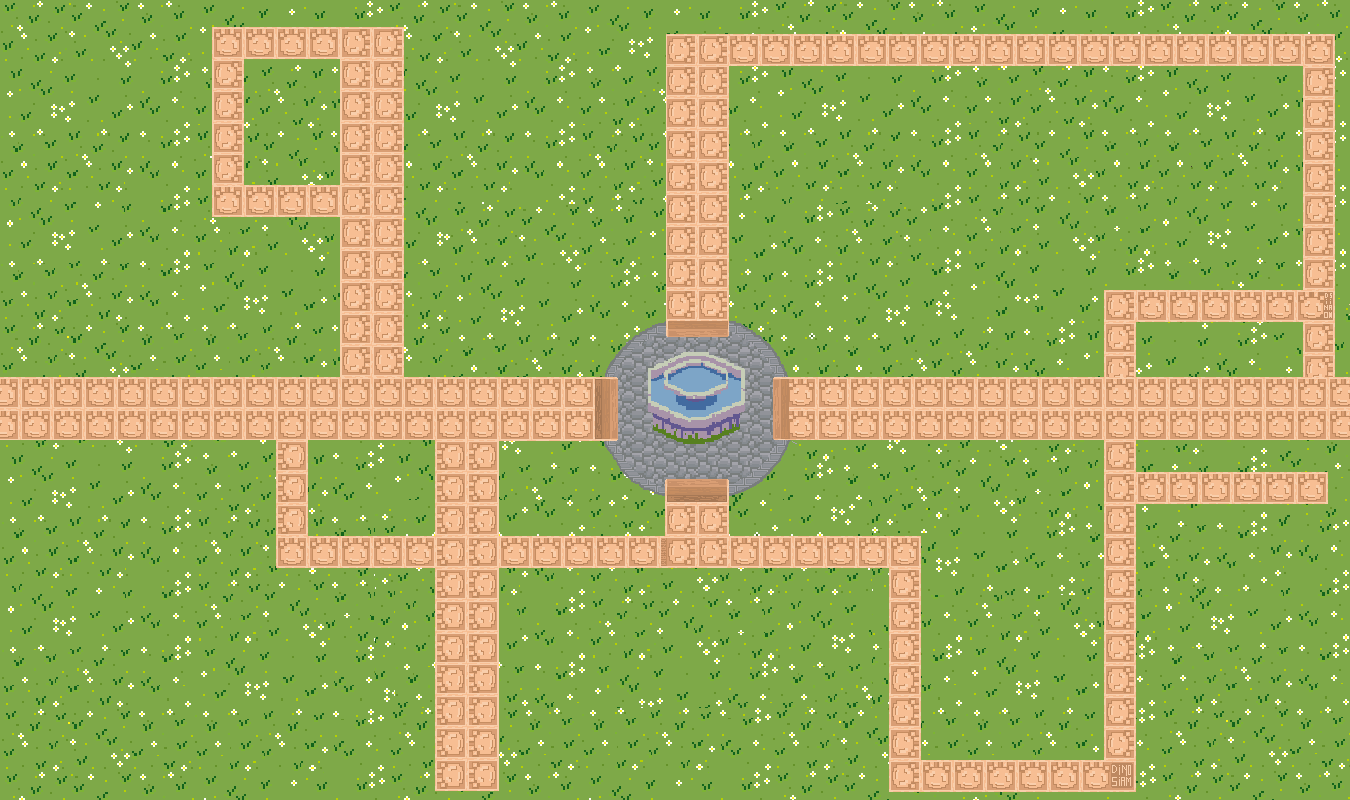
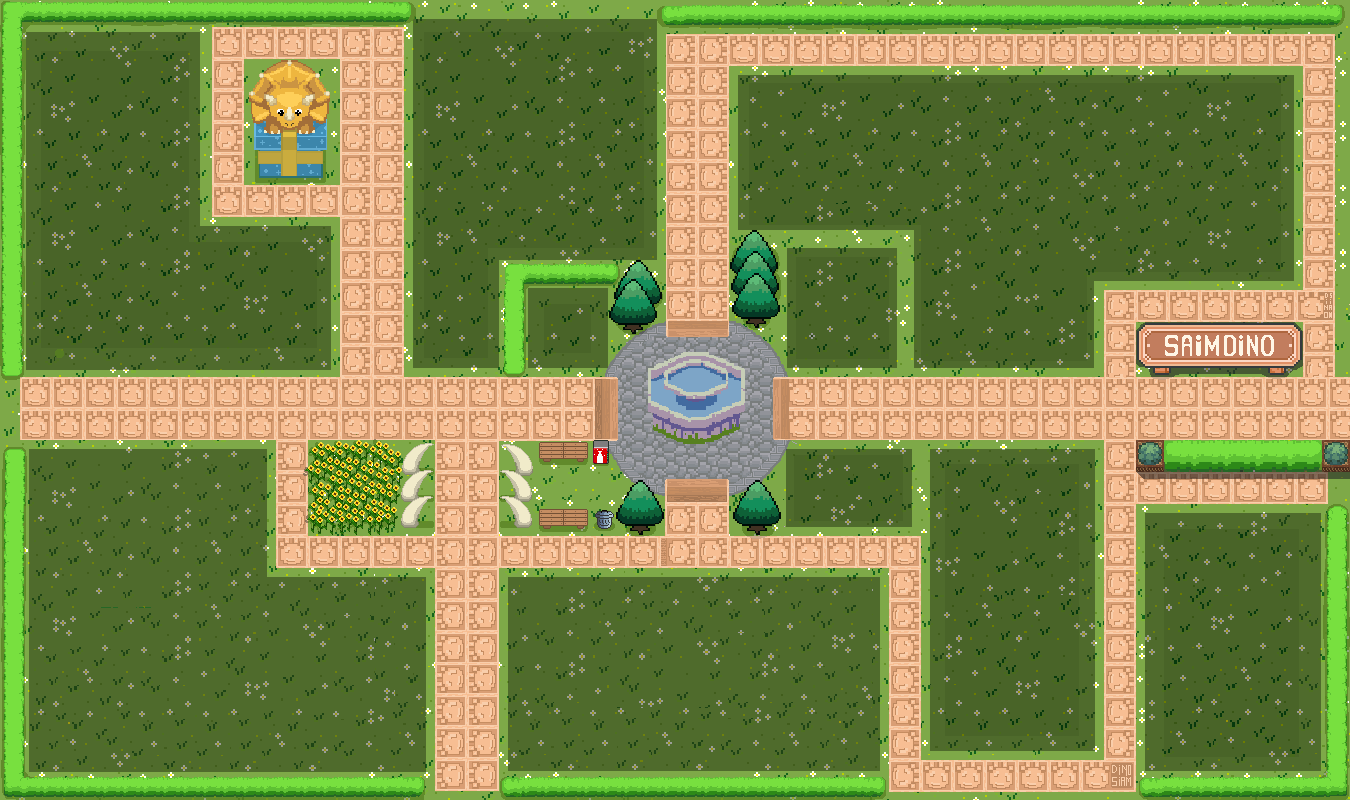
update

diff --git a/AllTread/AnimalThread/FeedAnimalThread.java b/AllTread/AnimalThread/FeedAnimalThread.java
@@ -1,13 +1,17 @@
 package AllTread.AnimalThread;
 
 import AllMom.MomAnimal;
-import java.util.Random;
+import java.awt.*;
+import java.util.*;
+import javax.swing.*;
 
 public class FeedAnimalThread extends Thread{
     private boolean running;
     private MoveThread moveThread;
     private AnimationThread animationThread;
     private MomAnimal m;
+    private JLabel label;
+    private Thread aThread;
 
     public FeedAnimalThread(MoveThread moveThread,AnimationThread animationThread,MomAnimal m){
         this.moveThread = moveThread;
@@ -20,6 +24,7 @@ public class FeedAnimalThread extends Thread{
             while (true) {
                 Thread.sleep(getSleep());
                 stopAll();
+                showMessage();
                 setRunning();
             }
         } catch (InterruptedException e) {
@@ -62,6 +67,18 @@ public class FeedAnimalThread extends Thread{
             case 3 -> 80000;
             default -> 60000;
         };
+    }
+
+    public void showMessage(){
+        label = new JLabel("Hungry");
+        label.setOpaque(true);
+        label.setForeground(Color.WHITE);
+        label.setBackground(Color.BLACK);
+        label.setToolTipText("Click ME");
+        label.setBounds(50, 50, 30, 30);
+        m.add(label);
+        m.revalidate();
+        m.repaint();
     }
 
 }

diff --git a/AllShop/FlyMeToTheMoonShop.java b/AllShop/FlyMeToTheMoonShop.java
@@ -66,7 +66,7 @@ public class FlyMeToTheMoonShop extends MomButton{
 
     private void reMoney(){
         switch (level) {
-            case 0 -> money = 1000;
+            case 0 -> money = 1200;
             case 1 -> money = 1000;
             case  2 -> money = 1720;
             case  3 -> money = 2400;
@@ -77,7 +77,7 @@ public class FlyMeToTheMoonShop extends MomButton{
             case  8 -> money = 10000;
             case  9 -> money = 20000;
             case 10 -> money = 40000;
-            default -> money = 1000;
+            default -> money = 1200;
         }   
     }
 }

diff --git a/AllShop/RestaurantShop.java b/AllShop/RestaurantShop.java
@@ -66,7 +66,7 @@ public class RestaurantShop extends MomButton{
 
     private void reMoney(){
         switch (level) {
-            case 0 -> money = 1000;
+            case 0 -> money = 1200;
             case 1 -> money = 1000;
             case  2 -> money = 1720;
             case  3 -> money = 2400;
@@ -77,7 +77,7 @@ public class RestaurantShop extends MomButton{
             case  8 -> money = 10000;
             case  9 -> money = 20000;
             case 10 -> money = 40000;
-            default -> money = 1000;
+            default -> money = 1200;
         }   
     }
 }

diff --git a/AllShop/IcecreamShop.java b/AllShop/IcecreamShop.java
@@ -66,7 +66,7 @@ public class IcecreamShop extends MomButton{
 
     private void reMoney(){
         switch (level) {
-            case 0 -> money = 1000;
+            case 0 -> money = 1200;
             case 1 -> money = 1000;
             case  2 -> money = 1720;
             case  3 -> money = 2400;
@@ -77,7 +77,7 @@ public class IcecreamShop extends MomButton{
             case  8 -> money = 10000;
             case  9 -> money = 20000;
             case 10 -> money = 40000;
-            default -> money = 1000;
+            default -> money = 1200;
         }   
     }
 }

diff --git a/AllShop/StormFlyShop.java b/AllShop/StormFlyShop.java
@@ -66,7 +66,7 @@ public class StormFlyShop extends MomButton{
 
     private void reMoney(){
         switch (level) {
-            case 0 -> money = 1000;
+            case 0 -> money = 1200;
             case 1 -> money = 1000;
             case  2 -> money = 1720;
             case  3 -> money = 2400;
@@ -77,7 +77,7 @@ public class StormFlyShop extends MomButton{
             case  8 -> money = 10000;
             case  9 -> money = 20000;
             case 10 -> money = 40000;
-            default -> money = 1000;
+            default -> money = 1200;
         }   
     }
 }

diff --git a/AllShop/BrownyShop.java b/AllShop/BrownyShop.java
@@ -68,7 +68,7 @@ public class BrownyShop extends MomButton{
 
     private void reMoney(){
         switch (level) {
-            case 0 -> money = 1000;
+            case 0 -> money = 1200;
             case 1 -> money = 1000;
             case  2 -> money = 1720;
             case  3 -> money = 2400;
@@ -79,7 +79,7 @@ public class BrownyShop extends MomButton{
             case  8 -> money = 10000;
             case  9 -> money = 20000;
             case 10 -> money = 40000;
-            default -> money = 1000;
+            default -> money = 1200;
         }   
     }
 }

diff --git a/AllShop/GreenyShop.java b/AllShop/GreenyShop.java
@@ -66,7 +66,7 @@ public class GreenyShop extends MomButton{
 
     private void reMoney(){
         switch (level) {
-            case 0 -> money = 1000;
+            case 0 -> money = 1200;
             case 1 -> money = 1000;
             case  2 -> money = 1720;
             case  3 -> money = 2400;
@@ -77,7 +77,7 @@ public class GreenyShop extends MomButton{
             case  8 -> money = 10000;
             case  9 -> money = 20000;
             case 10 -> money = 40000;
-            default -> money = 1000;
+            default -> money = 1200;
         }   
     }
 }

diff --git a/AllShop/RapterShop.java b/AllShop/RapterShop.java
@@ -66,7 +66,7 @@ public class RapterShop extends MomButton{
 
     private void reMoney(){
         switch (level) {
-            case 0 -> money = 1000;
+            case 0 -> money = 1200;
             case 1 -> money = 1000;
             case  2 -> money = 1720;
             case  3 -> money = 2400;
@@ -77,7 +77,7 @@ public class RapterShop extends MomButton{
             case  8 -> money = 10000;
             case  9 -> money = 20000;
             case 10 -> money = 40000;
-            default -> money = 1000;
+            default -> money = 1200;
         }   
     }
 }

diff --git a/AllShop/ReddyShop.java b/AllShop/ReddyShop.java
@@ -66,7 +66,7 @@ public class ReddyShop extends MomButton{
 
     private void reMoney(){
         switch (level) {
-            case 0 -> money = 1000;
+            case 0 -> money = 1200;
             case 1 -> money = 1000;
             case  2 -> money = 1720;
             case  3 -> money = 2400;
@@ -77,7 +77,7 @@ public class ReddyShop extends MomButton{
             case  8 -> money = 10000;
             case  9 -> money = 20000;
             case 10 -> money = 40000;
-            default -> money = 1000;
+            default -> money = 1200;
         }   
     }
 }

diff --git a/AllShop/WaterShop.java b/AllShop/WaterShop.java
@@ -66,7 +66,7 @@ public class WaterShop extends MomButton{
 
     private void reMoney(){
         switch (level) {
-            case 0 -> money = 1000;
+            case 0 -> money = 1200;
             case 1 -> money = 1000;
             case  2 -> money = 1720;
             case  3 -> money = 2400;
@@ -77,7 +77,7 @@ public class WaterShop extends MomButton{
             case  8 -> money = 10000;
             case  9 -> money = 20000;
             case 10 -> money = 40000;
-            default -> money = 1000;
+            default -> money = 1200;
         }   
     }
 }

diff --git a/AllShop/DodoShop.java b/AllShop/DodoShop.java
@@ -68,7 +68,7 @@ public class DodoShop extends MomButton{
 
     private void reMoney(){
         switch (level) {
-            case 0 -> money = 1000;
+            case 0 -> money = 1200;
             case 1 -> money = 1000;
             case  2 -> money = 1720;
             case  3 -> money = 2400;
@@ -79,7 +79,7 @@ public class DodoShop extends MomButton{
             case  8 -> money = 10000;
             case  9 -> money = 20000;
             case 10 -> money = 40000;
-            default -> money = 1000;
+            default -> money = 1200;
         }   
     }
 }

diff --git a/AllMom/MomAnimal.java b/AllMom/MomAnimal.java
@@ -45,6 +45,7 @@ public abstract class MomAnimal extends JPanel {
             @Override
             public void mouseClicked(MouseEvent e) {
                 if (moveThread.getRunning()){
+                    removeAll();
                     moveThread.running();
                     animationThread.running();
                     feedAnimalThread.running();
